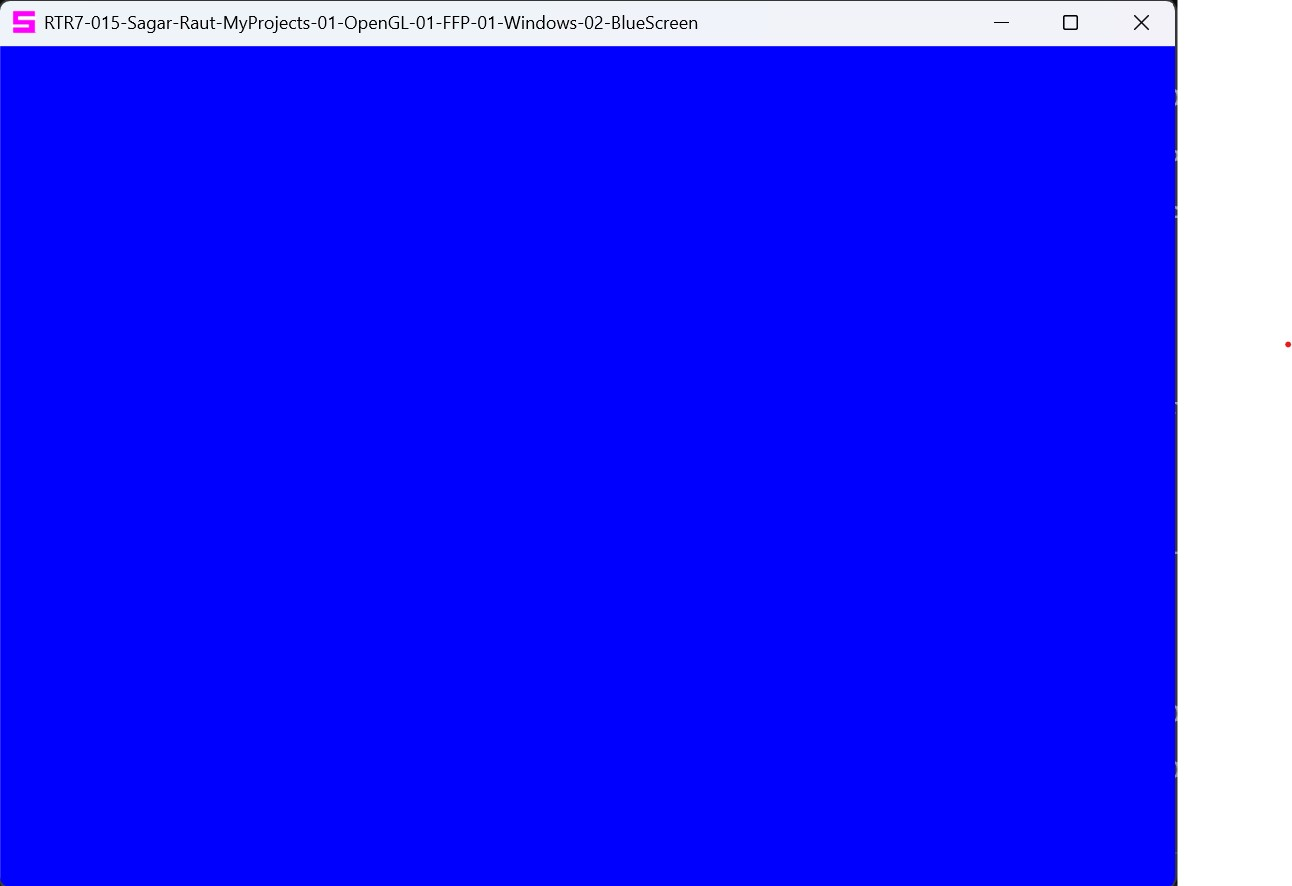
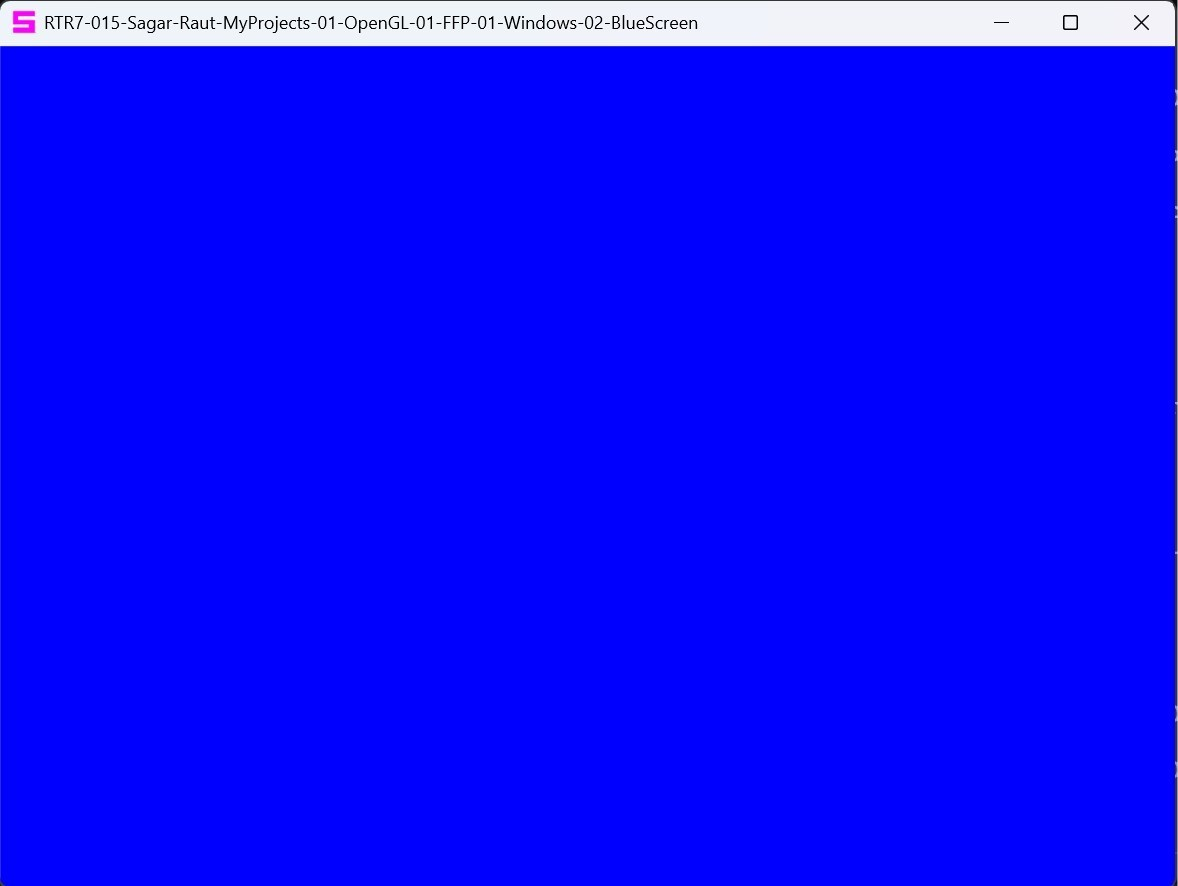
switch case added for error handling in blue screen code

Changed region(s): [[0.8862, 0.0, 1.0, 1.0], [0.0, 0.0, 0.5806, 0.0609]]

diff --git a/MyProjects/01-OpenGL/01-FFP/01-Windows/02-BlueScreen/OGL.c b/MyProjects/01-OpenGL/01-FFP/01-Windows/02-BlueScreen/OGL.c
@@ -113,7 +113,36 @@ int WINAPI WinMain(HINSTANCE hInstance, HINSTANCE hPrevInstance, LPSTR lpszCmdLi
 		DestroyWindow(hwnd);
 		hwnd = NULL;
 	}
-	// add if else ladder of iResult values
+	else if (iResult == -1)
+	{
+		fprintf(gpFile, "SSR: initialise(): failed to get device context\n");
+		DestroyWindow(hwnd);
+		hwnd = NULL;
+	}
+	else if (iResult == -2)
+	{
+		fprintf(gpFile, "SSR: initialise(): failed to get pixel format\n");
+		DestroyWindow(hwnd);
+		hwnd = NULL;
+	}
+	else if (iResult == -3)
+	{
+		fprintf(gpFile, "SSR: initialise(): failed to set pixel format\n");
+		DestroyWindow(hwnd);
+		hwnd = NULL;
+	}
+	else if (iResult == -4)
+	{
+		fprintf(gpFile, "SSR: initialise() failed to get rendering context\n");
+		DestroyWindow(hwnd);
+		hwnd = NULL;
+	}
+	else if (iResult == -5)
+	{
+		fprintf(gpFile, "SSR: initialise() failed to switch current context to rendering context\n");
+		DestroyWindow(hwnd);
+		hwnd = NULL;
+	}
 	else
 	{
 		fprintf(gpFile, "SSR: WinMain(): initialise() succeeded\n");
